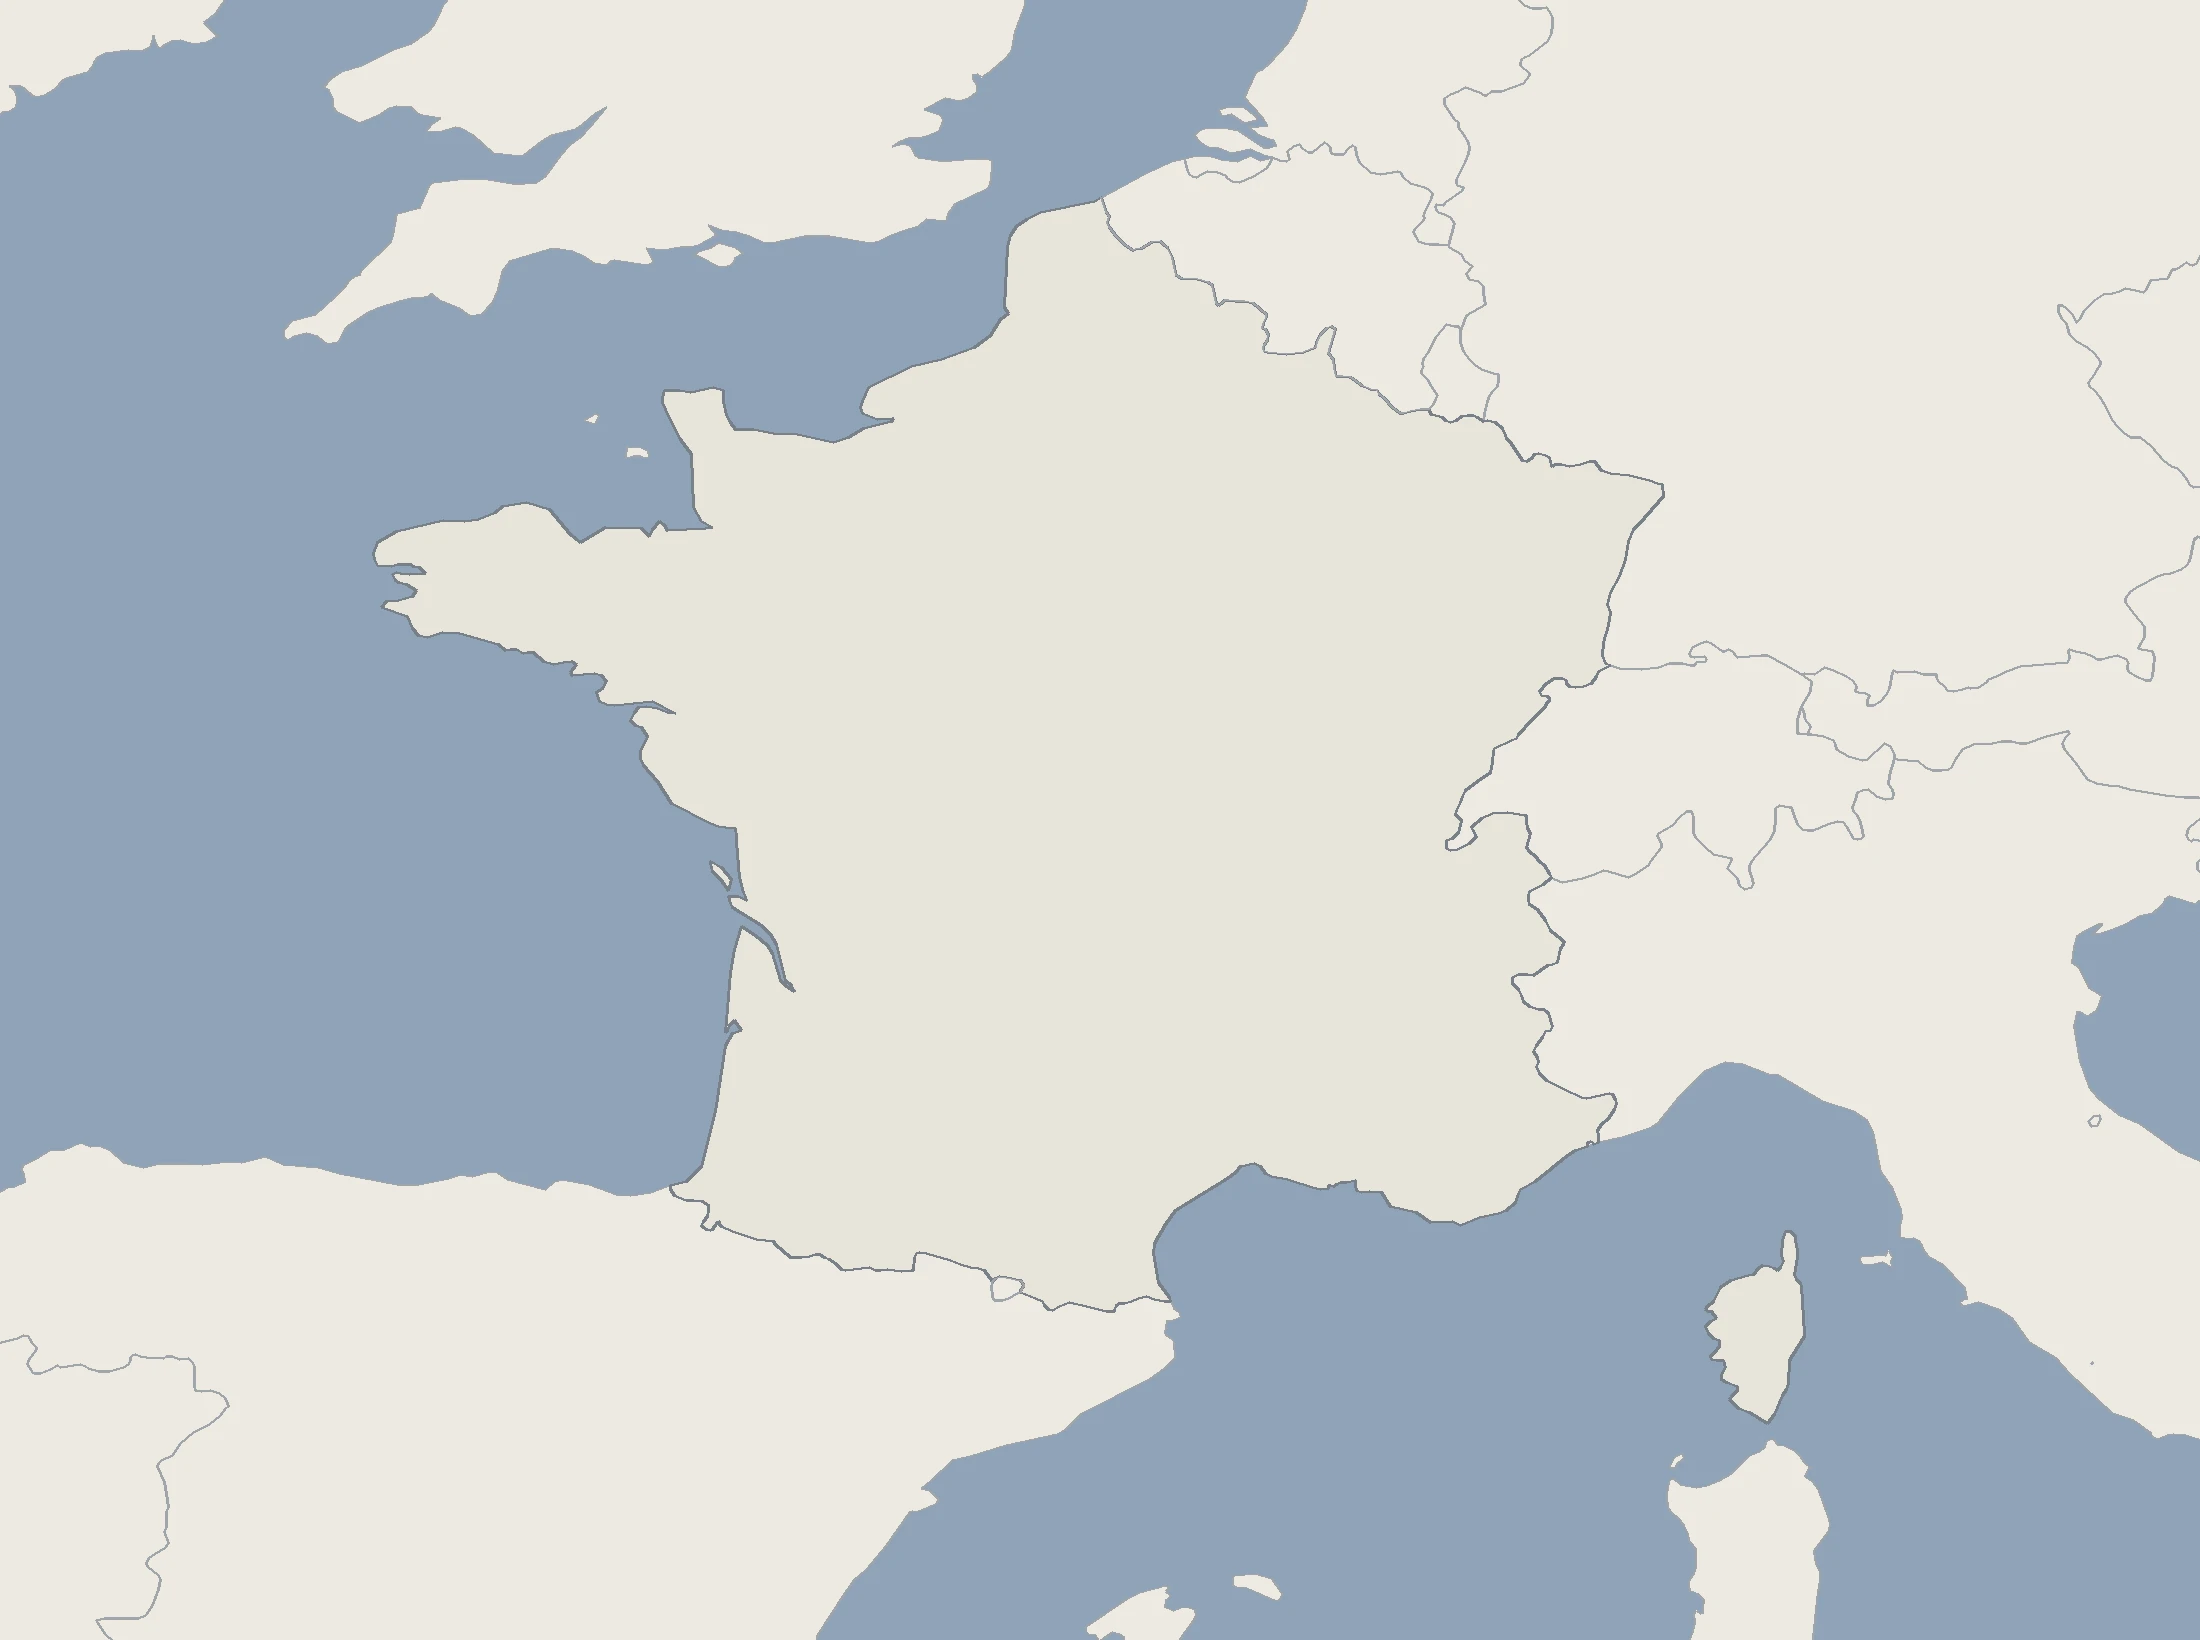
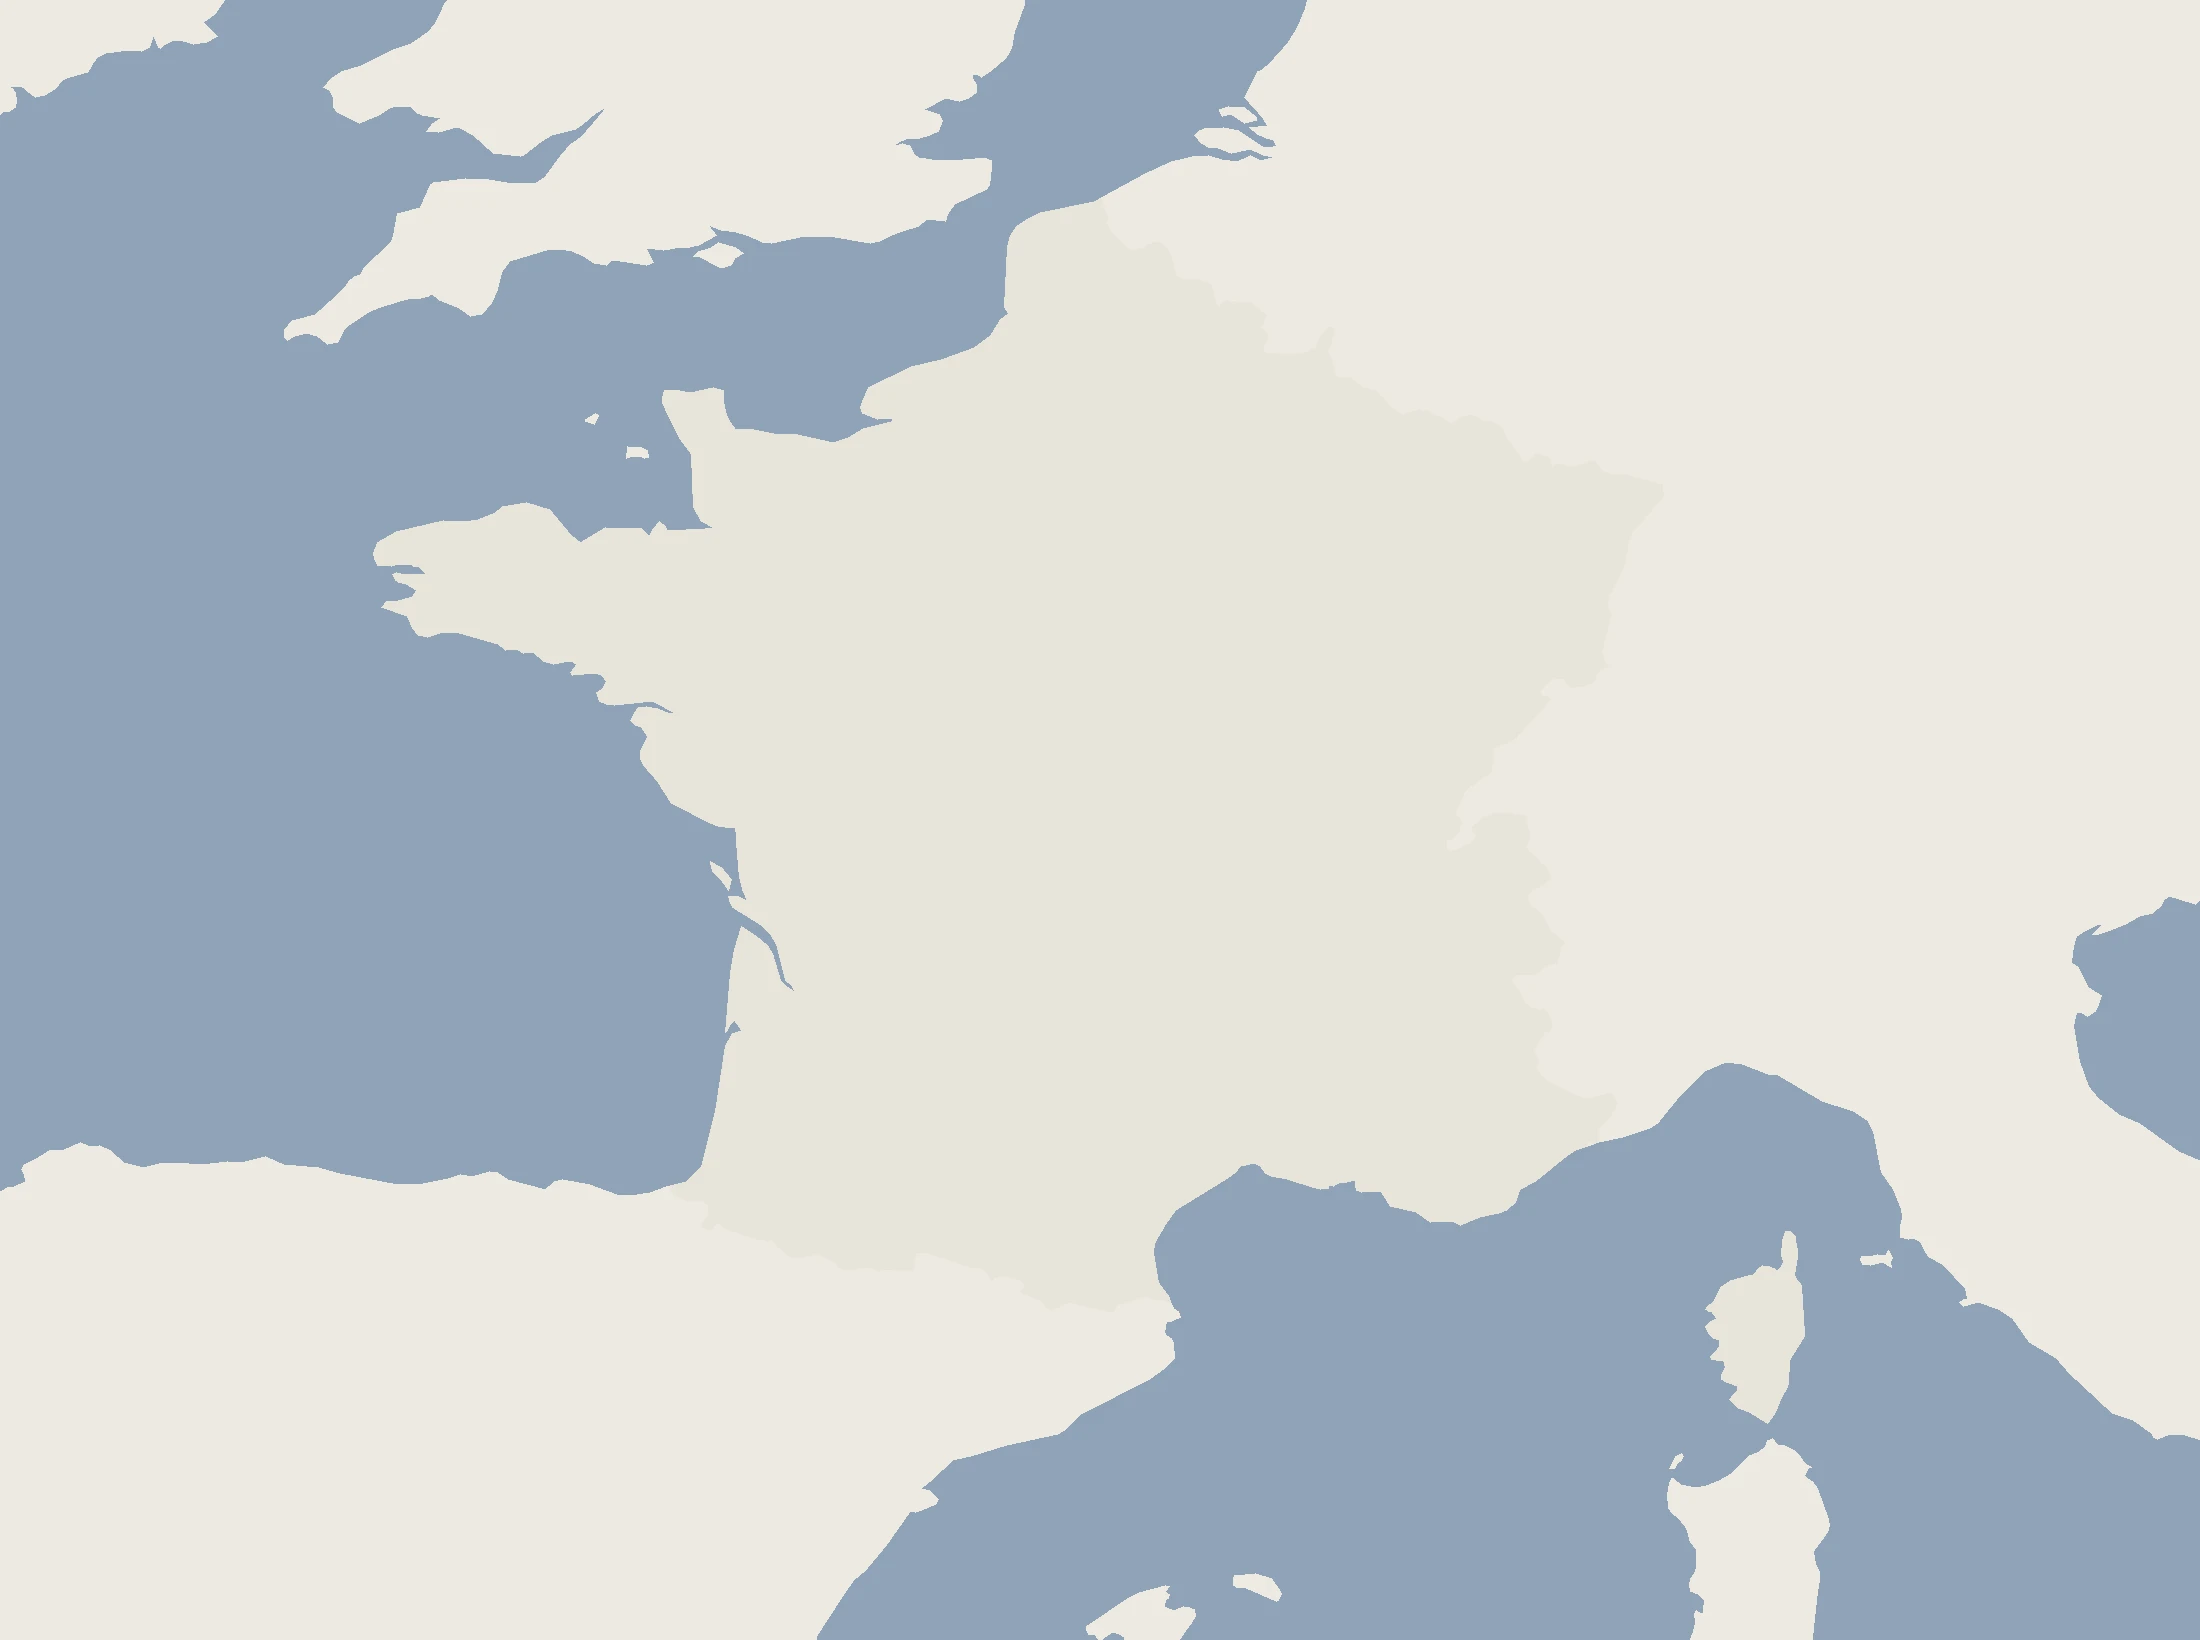
fix(borders): elimination du dedoublement de contours et nettetee vectorielle parfaite v5.6.6

Changed region(s): [[0.4945, 0.9951, 0.5255, 1.0], [0.34, 0.5598, 0.3709, 0.5909], [0.3091, 0.5287, 0.34, 0.5598]]

diff --git a/index.html b/index.html
@@ -929,7 +929,7 @@
     <script src="js/palettes.js?v=1.0.0"></script>
     <script src="https://cdnjs.cloudflare.com/ajax/libs/gif.js/0.2.0/gif.js"></script>
     <script src="js/regions.js?v=1.0.0"></script>
-    <script src="js/arome-map.js?v=5.6.5"></script>
+    <script src="js/arome-map.js?v=5.6.6"></script>
 </body>
 </html>
 

diff --git a/pipeline/generate_fond.py b/pipeline/generate_fond.py
@@ -91,19 +91,8 @@ def generate_fond(out_path):
             if len(pts) >= 3:
                 draw.polygon(pts, fill=fill)
 
-    # 2. Frontières internationales (traits fins) + France plus marquée
-    for feat in data.get("features", []):
-        props = feat.get("properties", {})
-        name = props.get("NAME") or props.get("ADMIN") or props.get("name") or ""
-        geom = feat.get("geometry")
-        if not geom:
-            continue
-        colour = FRANCE_BORDER if name in france_names else BORDER
-        width = 3 if name in france_names else 2
-        for ring in _iter_rings(geom):
-            pts = _ring_to_xy(ring)
-            if len(pts) >= 2:
-                draw.line(pts, fill=colour, width=width, joint="curve")
+    # 2. Les frontières et côtes sont tracées exclusivement par frontieres.svg
+    # (évite les dédoublements de contours entre le fond bitmap et le SVG).
 
     os.makedirs(os.path.dirname(out_path), exist_ok=True)
     img.save(out_path, format="WEBP", quality=90, method=6)
